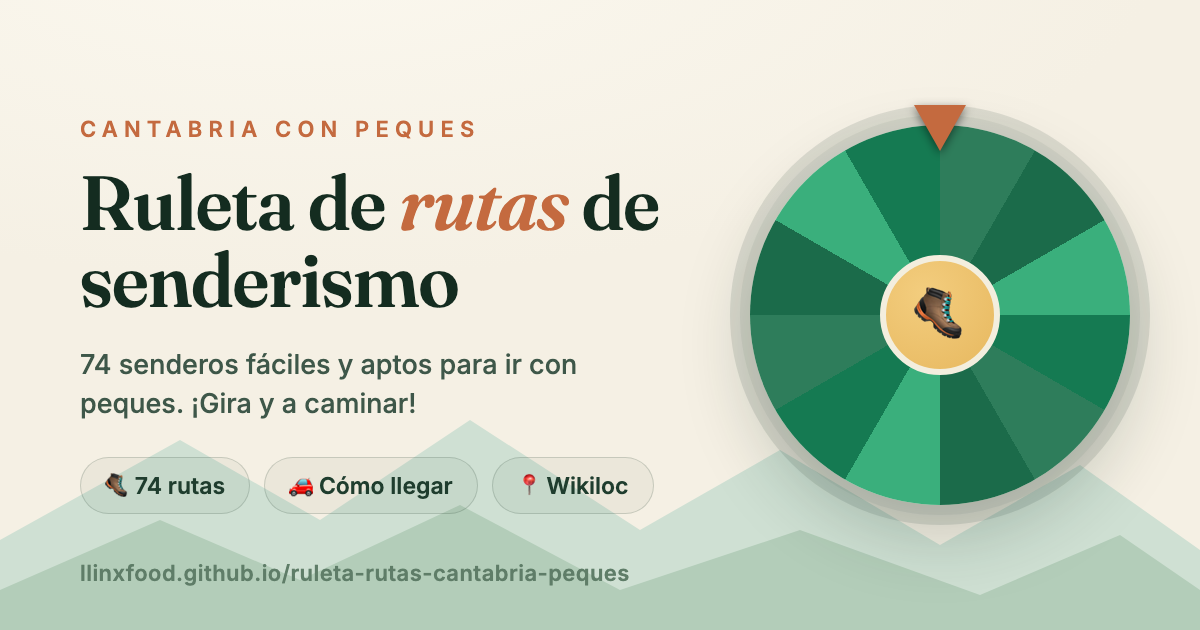
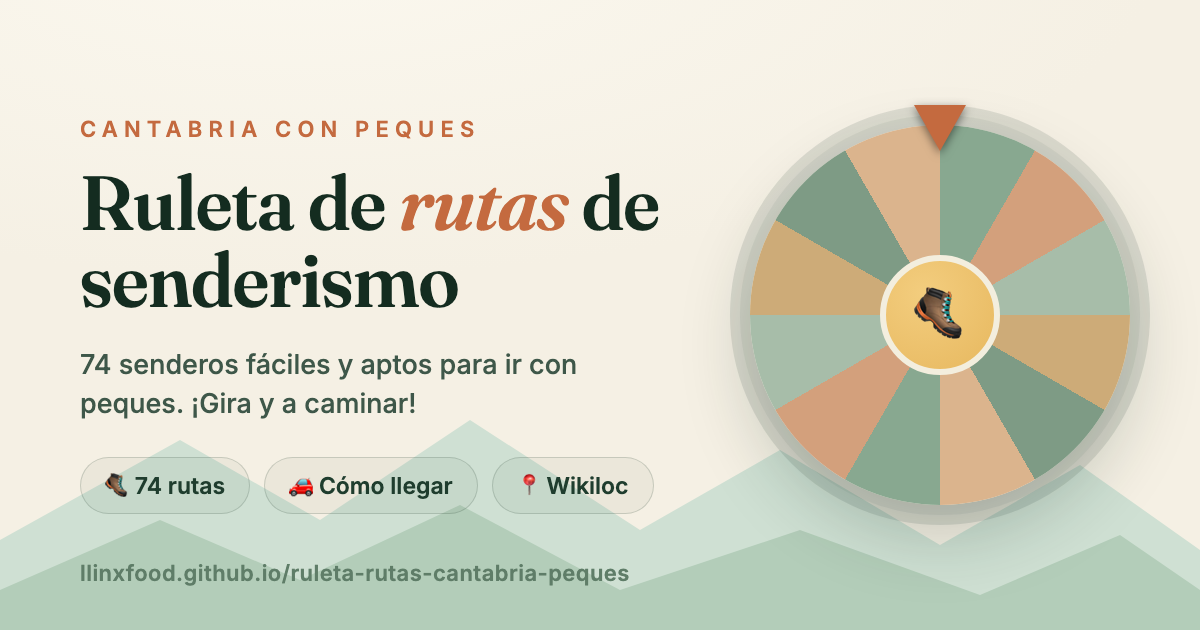
Soften wheel to muted earthy palette with dark labels; match OG image

Changed region(s): [[0.6167, 0.181, 0.9558, 0.8143]]

diff --git a/app/src/components/Wheel.jsx b/app/src/components/Wheel.jsx
@@ -1,7 +1,7 @@
 import { forwardRef, useEffect, useImperativeHandle, useRef, useState } from 'react'
 
-// Paleta cálida cohesionada con el tema (verdes + terracota + tierra)
-const COLORS = ["#2e6b4f", "#c46a3f", "#1f4536", "#a8552f", "#3f7a5e", "#8a3d22"]
+// Paleta apagada/terrosa para integrarse con el crema (salvia, arcilla, arena)
+const COLORS = ["#88a890", "#d3a07c", "#a7bda9", "#cdab78", "#7e9b85", "#dbb48d"]
 
 const Wheel = forwardRef(function Wheel({ routes, onResult }, ref) {
   const canvasRef = useRef(null)
@@ -25,9 +25,9 @@ const Wheel = forwardRef(function Wheel({ routes, onResult }, ref) {
       ctx.moveTo(R, R)
       ctx.arc(R, R, R - 6, start, start + arc)
       ctx.closePath()
-      ctx.fillStyle = i === highlight ? '#f3cd7e' : COLORS[i % COLORS.length]
+      ctx.fillStyle = i === highlight ? '#c46a3f' : COLORS[i % COLORS.length]
       ctx.fill()
-      ctx.strokeStyle = i === highlight ? '#fff' : 'rgba(255,255,255,.15)'
+      ctx.strokeStyle = i === highlight ? '#fffdf7' : 'rgba(255,253,247,.55)'
       ctx.lineWidth = i === highlight ? 4 : 2
       ctx.stroke()
 
@@ -35,7 +35,7 @@ const Wheel = forwardRef(function Wheel({ routes, onResult }, ref) {
       ctx.translate(R, R)
       ctx.rotate(start + arc / 2)
       ctx.textAlign = 'right'
-      ctx.fillStyle = i === highlight ? '#0c3024' : '#fff'
+      ctx.fillStyle = i === highlight ? '#fffdf7' : '#1f3d2e'
       ctx.font = `bold ${Math.max(9, Math.min(15, 360 / n))}px "Inter", sans-serif`
       let label = routes[i].name
       const maxChars = n > 40 ? 22 : 34

diff --git a/og-image.html b/og-image.html
@@ -53,10 +53,10 @@
   .wheel {
     width: 380px; height: 380px; border-radius: 50%;
     background: conic-gradient(
-      #2e7d5b 0 30deg, #1b6b4a 30deg 60deg, #3aaf7c 60deg 90deg,
-      #157a52 90deg 120deg, #2e7d5b 120deg 150deg, #1b6b4a 150deg 180deg,
-      #3aaf7c 180deg 210deg, #157a52 210deg 240deg, #2e7d5b 240deg 270deg,
-      #1b6b4a 270deg 300deg, #3aaf7c 300deg 330deg, #157a52 330deg 360deg);
+      #88a890 0 30deg, #d3a07c 30deg 60deg, #a7bda9 60deg 90deg,
+      #cdab78 90deg 120deg, #7e9b85 120deg 150deg, #dbb48d 150deg 180deg,
+      #88a890 180deg 210deg, #d3a07c 210deg 240deg, #a7bda9 240deg 270deg,
+      #cdab78 270deg 300deg, #7e9b85 300deg 330deg, #dbb48d 330deg 360deg);
     box-shadow: 0 0 0 10px rgba(31,61,46,.06), 0 0 0 20px rgba(31,61,46,.12), 0 30px 70px rgba(20,44,32,.22);
     position: relative;
   }

diff --git a/index.html b/index.html
@@ -24,7 +24,7 @@
   <link rel="preconnect" href="https://fonts.googleapis.com" />
   <link rel="preconnect" href="https://fonts.gstatic.com" crossorigin />
   <link href="https://fonts.googleapis.com/css2?family=Fraunces:ital,opsz,wght@0,9..144,500;0,9..144,600;0,9..144,700;1,9..144,600&family=Inter:wght@400;500;600;700&display=swap" rel="stylesheet" />
-  <script type="module" crossorigin src="./assets/index-Brzsc10K.js"></script>
+  <script type="module" crossorigin src="./assets/index-CfWq7ohJ.js"></script>
   <link rel="stylesheet" crossorigin href="./assets/index-BoMs1sm9.css">
 </head>
 <body>